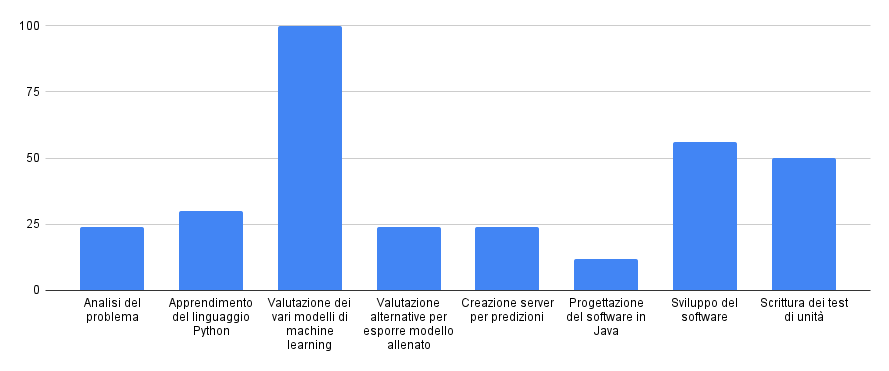
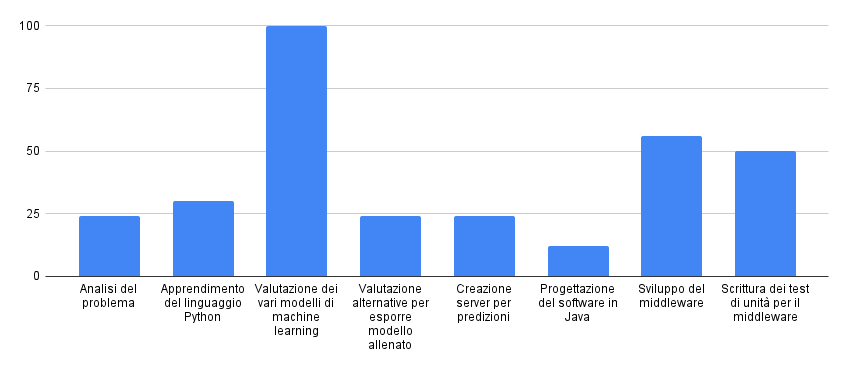
Updates from Overleaf

diff --git a/capitoli/capitolo-2.tex b/capitoli/capitolo-2.tex
@@ -13,7 +13,7 @@
 \section{Descrizione del dataset}
 \subsection{Descrizione del tipo di dati ricercati}
 Dopo l'incontro con un esperto in geologia, a cui l'azienda si è rivolta per una consulenza, si è deciso di descrivere gli esempi che andranno in input al modello di machine learning attraverso la loro firma spettrale.
-La firma spettrale è una caratteristica che ogni materiale ha, ed è specifica per ogni combinazione di riflessi e assorbimenti delle radiazioni elettromagnetiche (EM) a diverse lunghezze d'onda. Conoscendo la firma spettrale di un oggetto, è possibile identificarlo univocamente.
+La firma spettrale è una caratteristica che ogni materiale possiede, ed è specifica per ogni combinazione di riflessi e assorbimenti delle radiazioni elettromagnetiche (EM) a diverse lunghezze d'onda. Conoscendo la firma spettrale di un oggetto, è possibile identificarlo univocamente.
 Un esempio di firma è quello riportato nella figura \ref{fig:esempio_firma}, presa dal dataset di seguito presentato.
 \begin{figure}
     \centering
@@ -39,14 +39,14 @@ Gli strumenti usati, in dettaglio, sono:
 Le classi di materiale prese in considerazione sono:
 \begin{itemize}
     \item minerali;
-    \item terreno (incluso rocce e minerali);
+    \item terreno;
     \item rivestimenti su superfici rocciose;
     \item liquidi;
     \item composti organici;
     \item materiali artificiali;
     \item vegetazione e altri materiali biologici.
 \end{itemize}
-Una caratteristica degna di nota del dataset è che in corrispondenza di lunghezze d'onda il cui valore di riflettanza fosse stato eccessivamente sporcato da gas atmosferici questo è stato impostato a $-1.23 \cdot 10^{34}$, il quale corrisponde al "deleted channel" del software SPECPR (SPECtrum Processing Routines). Di conseguenza questi valori dovranno essere rimossi, per evitare che il modello prenda degli input inconsistenti durante il processo di allenamento.\\
+Una caratteristica degna di nota del dataset è che in corrispondenza di lunghezze d'onda il cui valore di riflettanza fosse stato eccessivamente sporcato da gas atmosferici questo è stato impostato a $1.23 \cdot 10^{34}$, il quale corrisponde al "deleted channel" del software SPECPR (SPECtrum Processing Routines). Di conseguenza questi valori dovranno essere rimossi, per evitare che il modello prenda degli input inconsistenti durante il processo di allenamento.\\
 In totale sono stati presi in considerazione 61453 esempi, con la distribuzione in classi riportata in figura \ref{distr_esempi}. Come si può notare dal grafico, ci troviamo in presenza di dati sbilanciati, con più della metà appartenente alla classe di rocce e minerali, una minima parte appartenente a rivestimenti e liquidi (in totale $1.5\%$), e i restanti esempi circa equi-distribuiti tra le restanti classi.
 
 \begin{figure}
@@ -57,7 +57,7 @@ In totale sono stati presi in considerazione 61453 esempi, con la distribuzione 
 \end{figure}
 
 \subsection{Elaborazione dei dati}
-In primo luogo è stato necessario formattare i dati contenuti nel dataset in modo che fossero poi pronti come input per il modello di machine learning. Originariamente questi erano contenuti in file formato \verb|.txt| codificati in ASCII. In particolare erano suddivisi in cartelle in base allo spettrometro usato nelle rilevazioni e all'anno in cui sono state effettuate. Dentro ognuna di queste poi, vi era una cartella per ogni classe di materiale, contenente le lo spettro luminoso di ogni materiale. Il file con la lunghezza d'onda era comune per tutti i materiali. Per questa attività si sono realizzati degli script in linguaggio Python, i quali rimuovevano caratteri come spazi e stringhe. Il risultato, per ogni cartella, è un file \verb|data.txt| in cui ogni linea identifica una rilevazione. In particolare il primo numero intero $n \in \{ 0 .. 6 \}$ identifica la classe di appartenenza secondo questa mappa:
+In primo luogo è stato necessario formattare i dati contenuti nel dataset in modo che fossero poi pronti come input per il modello di machine learning. Originariamente questi erano contenuti in file formato \verb|.txt| codificati in ASCII. In particolare erano suddivisi in cartelle in base allo spettrometro usato nelle rilevazioni e all'anno in cui sono state effettuate. Dentro ognuna di queste poi, vi era una cartella per ogni classe di materiale, contenente le lo spettro luminoso di ogni materiale. Il file con la lunghezza d'onda era comune per tutti i materiali. Per questa attività si sono realizzati degli script in linguaggio Python, i quali rimuovevano caratteri come spazi e stringhe. Il risultato, per ogni cartella, è un file \verb|data.txt| in cui ogni riga identifica una rilevazione. In particolare il primo numero intero $n \in \{ 0 .. 6 \}$ identifica la classe di appartenenza secondo questa mappa:
 \begin{itemize}
     \item $0 \rightarrow$ materiali artificiali
     \item $1 \rightarrow$ rivestimenti
@@ -67,7 +67,7 @@ In primo luogo è stato necessario formattare i dati contenuti nel dataset in mo
     \item $5 \rightarrow$ terreno
     \item $6 \rightarrow$ vegetazione
 \end{itemize}
-Successivamente ci sono $k$ numeri che rappresentano lo spettro luminoso, seguiti da altrettanti per le lunghezze d'onda corrispondenti. Più in dettaglio, il numero n-esimo nell'array dello spettro luminoso corrisponde al n-esimo nell'array delle lunghezze d'onda. Il valore $k$ dipende dallo strumento usato per la rilevazione.\\
+Successivamente ci sono $k$ numeri che rappresentano lo spettro luminoso, seguiti da altrettanti per le lunghezze d'onda corrispondenti. Più in dettaglio, il numero i-esimo nell'array dello spettro luminoso corrisponde al i-esimo nell'array delle lunghezze d'onda. Il valore $k$ dipende dallo strumento usato per la rilevazione.\\
 Vista l'eterogeneità delle righe del file, le quali hanno lunghezze diverse a causa della diversità delle misurazioni effettuate, si è resa necessaria una fase di uniformazione. Questa è stata effettuata usando il software proprietario MATLAB\_R2021A, lo script è riportato in \ref{script_matlab}.
 
 \lstset{
@@ -112,7 +112,7 @@ Vista l'eterogeneità delle righe del file, le quali hanno lunghezze diverse a c
 \end{lstlisting}
 dove il file \verb|dataset.txt| è l'unione dei file generati per ogni cartella in precedenza con lo script Python.
 Ogni linea viene divisa nelle tre parti prima descritte, inoltre dai valori di riflettanza e lunghezza d'onda vengono rimossi i canali con valori eliminati a causa di errori troppo elevati nella rilevazione.
-Successivamente i valori vengono interpolati con una spline cubica e portati ad un'unica dimensionalità di 2000 punti. Quello che interessa per identificare un oggetto tramite la firma spettrale, cosi come dedotto dall'incontro con l'esperto in geologia, è l'andamento del valore di riflettanza, ad esempio particolari picchi o oscillazioni. Di conseguenza non è fondamentale che i valori di lunghezza d'onda siano esattamente gli stessi, perciò l'interpolazione avviene considerando gli estremi dell'intervallo delle lunghezze d'onda per ogni esempio. È stato scelto questo particolare metodo di interpolazione visto che assicura la convergenza anche con nodi equispaziati ed è stabile, al contrario di quello polinomiale.\\
+Successivamente tutti gli esempi sono interpolati con una spline cubica e portati in uno spazio a 2000 dimensioni. Quello che interessa per identificare un oggetto tramite la firma spettrale, cosi come dedotto dall'incontro con l'esperto in geologia, è l'andamento del valore di riflettanza, ad esempio particolari picchi o oscillazioni. Di conseguenza non è fondamentale che i valori di lunghezza d'onda siano esattamente gli stessi, perciò l'interpolazione avviene considerando gli estremi dell'intervallo delle lunghezze d'onda per ogni esempio. È stato scelto questo particolare metodo di interpolazione visto che assicura la convergenza anche con nodi equispaziati ed è stabile, al contrario di quello polinomiale.\\
 L'output di questo script sono i due file \verb|x.txt| e \verb|y.txt|, i quali sono pronti ad essere caricati in linguaggio Python per usarli come input del modello di apprendimento automatico.
 
 \section{Sviluppo del modello di machine learning}
@@ -125,7 +125,8 @@ Il vantaggio nell'utilizzo di questo strumento è innanzitutto la possibilità d
 
 \subsection{Scelta del modello}
 \subsubsection{k-nearest-neighbour}
-Una prima considerazione è stata fatta in base al successivo utilizzo del modello allenato: questo dovrà essere interpellato per effettuare predizioni in real time, dunque il tempo di risposta dovrà essere costante. Ne segue che modelli basati su k-nearest-neighbour non possono essere adottati, in quanto il tempo di esecuzione dell'algoritmo di predizione ricade nella classe di complessità $\theta (n)$ dove $n$ è il numero di esempi classificati. Questo perché la classificazione dei nuovi esempi si basa sul calcolo della distanza dagli esempi nel training set in uno spazio d-dimensionale (dove $d$ è il numero di features, nel nostro caso 2000), successivamente si trovano i $k$ esempi più vicini a quello da classificare, tra questi si guarda la classe più frequente. Una volta che un esempio è classificato viene usato nelle predizioni successive, dunque il tempo per il calcolo delle distanze aumenta. Questo è impraticabile in un sistema real-time, il quale richiede che i tempi di risposta siano costanti, ne segue la decisione prima menzionata. Un esempio di funzionamento di questo algoritmo si può osservare nella figura \ref{fig:knn}.
+Una prima considerazione è stata fatta in base al successivo utilizzo del modello allenato: questo dovrà essere interpellato per effettuare predizioni in real time, dunque il tempo di risposta dovrà essere costante. Ne segue che modelli basati su k-nearest-neighbour non possono essere adottati, in quanto il tempo di esecuzione dell'algoritmo di predizione ricade nella classe di complessità $\Theta (n)$ dove $n$ è il numero di esempi classificati. Questo perché la classificazione dei nuovi esempi si basa sul calcolo della distanza dagli esempi nel training set in uno spazio d-dimensionale (dove $d$ è il numero di features, nel nostro caso 2000), successivamente si trovano i $k$ esempi più vicini a quello da classificare, tra questi si guarda la classe più frequente. Una volta che un esempio è classificato viene usato nelle predizioni successive, dunque il tempo per il calcolo delle distanze aumenta. Questo è impraticabile in un sistema real-time, il quale richiede che i tempi di risposta siano costanti, ne segue la decisione prima menzionata.
+Un esempio di funzionamento di questo algoritmo si può osservare nella figura \ref{fig:knn}.
 
 \begin{figure}
     \centering
@@ -138,11 +139,11 @@ Una prima considerazione è stata fatta in base al successivo utilizzo del model
 Questo tipo di modello è stato preso in considerazione visto che è un algoritmo di apprendimento supervisionato usato spesso per compiti di classificazione. È un modello di classificazione lineare ma può essere usato efficientemente per effettuare classificazioni non lineari usando il \textit{kernel trick}. Inoltre è molto efficace in spazi a molte dimensioni.
 Per l'implementazione ci si è affidati alla libreria scikit-learn, la quale offre dei modelli per la classificazione con le seguenti classi:
 \begin{itemize}
-    \item SVC: Support Vector Classification, la cui implementazione è basata sulla libreria \verb|libsvm| scritta in linguaggio C++, dunque offre la velocità di un linguaggio compilato. Il tempo di training è nella classe di complessità $\theta (n^2)$ con $n$ il numero di esempi nel set di training, dunque diventa inutilizzabile con le dimensioni del nostro dataset. Questo perché effettua un tipo di classificazione one-vs-one, dunque allena $k \cdot (k-1)/2$ classificatori binari con $k$ il numero di classi;
+    \item SVC: Support Vector Classification, la cui implementazione è basata sulla libreria \verb|libsvm| scritta in linguaggio C++, dunque offre la velocità di un linguaggio compilato. Il tempo di training è nella classe di complessità $\Theta (n^2)$ con $n$ il numero di esempi nel set di training, dunque diventa inutilizzabile con le dimensioni del nostro dataset. Questo perché effettua un tipo di classificazione one-vs-one, dunque allena $k \cdot (k-1)/2$ classificatori binari con $k$ il numero di classi;
     \item NuSVC: simile al precedente ma aggiunge un parametro per controllare il numero dei support vectors;
     \item LinearSVC: questo è stato il tipo di modello che si è provato ad utilizzare nel nostro caso. A differenza dei precedenti allena dei classificatori di tipo one-vs-all, ovvero un classificatore per ogni classe. Ne segue che non c'è più la complessità quadratica per l'algoritmo di allenamento. È simile alla classe SVC con parametro nel costruttore \verb|kernel='linear'|, tuttavia la sua implementazione si basa sulla libreria \verb|liblinear|, anch'essa scritta in C++ ma che scala meglio all'aumentare delle dimensioni del dataset.
 \end{itemize}
-Il modello è stato inserito in una pipeline che prevedesse uno step precedente per la normalizzazione delle features tramite la classe \verb|StandardScaler| offerta dalla stessa libreria. Si è applicata inoltre la procedura di hold-out, che prevede la suddivisione del dataset in due parti, training e validation set. La dimensione scelta per il primo è $80\%$, per il secondo il restante $20\%$, la suddivisione è stata effettuata in modo casuale usando la funzione \verb|train_test_split| offerta dalla stessa libreria.\\
+Il modello è stato inserito in una pipeline che prevedesse uno step precedente per la normalizzazione delle features tramite la classe \verb|StandardScaler| offerta dalla stessa libreria. Si è applicata inoltre la procedura di cross-validation, che prevede la suddivisione del dataset in due parti disgiunte, training e validation set. La dimensione scelta per il primo è $80\%$, per il secondo il restante $20\%$, la suddivisione è stata effettuata in modo casuale usando la funzione \verb|train_test_split| offerta dalla stessa libreria.\\
 Successivamente il modello allenato è stato testato valutando l'accuratezza nell'effettuare le predizioni sul set di validazione, le prove hanno dato esito negativo visto che non si è superato il $62\%$ in questa metrica.
 
 \begin{figure}

diff --git a/capitoli/capitolo-3.tex b/capitoli/capitolo-3.tex
@@ -3,19 +3,22 @@
 % !TEX root = ../tesi.tex
 
 %**************************************************************
-\chapter{Algoritmo per il calcolo della traiettoria}
+\chapter{Progettazione e sviluppo del middleware}
 \label{cap:business-logic}
 %**************************************************************
 
-\intro{In questa sezione si documenterà la realizzazione della business logic per il calcolo della traiettoria e l'interfacciamento con il drone.}\\
+\intro{In questa sezione si documenterà la realizzazione del middleware per il calcolo della traiettoria e l'interfacciamento con il drone.}\\
 
 %**************************************************************
 
 \section{Strumenti utilizzati}
-Il linguaggio scelto per sviluppare questa componente della Proof of Concept è Java nella versione 11. Si è usato l'IDE IntelliJ IDEA Education, il quale offre un ambiente di sviluppo integrato sia per Java che per Python. In questo modo è stato possibile eseguire il server per le predizioni insieme al modulo del programma in Java che si interfaccia con questo in modo molto semplificato.
+Il linguaggio scelto per sviluppare questa componente della Proof of Concept è Java nella versione 11.
+Questo è stato scelto per la sua predisposizione alla gestione della concorrenza: infatti l'interfaccia esposta dal middleware sarà in futuro utilizzata da più droni contemporaneamente, addetti alla scansione di un unico campo. Tuttavia durante il tirocinio ci si è concentrati a predisporre l'applicazione per un solo drone, questo per via delle risorse temporali limitate.\\
+Si è usato l'IDE IntelliJ IDEA Education, il quale offre un ambiente di sviluppo integrato sia per Java che per Python. In questo modo è stato possibile eseguire il server per le predizioni insieme al modulo del programma in Java che si interfaccia con questo in modo molto semplificato.
+Il progetto è stato gestito con Maven.
 
 \section{Architettura generale}
-L'architettura data all'applicazione è quella del monolite a strati, di cui si può vedere una rappresentazione ad alto livello nella figura \ref{fig:layered_architecture}. Il principale vantaggio che si ottiene dall'adozione di questa architettura è alta testabilità: infatti è molto semplice creare delle componenti di mock o addirittura layer interi che sostituiscono quelli reali, al fine di testare gli strati superiori.
+L'architettura data all'applicazione è quella del monolite a strati, di cui si può vedere una rappresentazione ad alto livello nella figura \ref{fig:layered_architecture}. Il principale vantaggio che si ottiene dall'adozione di questa architettura è l'alta testabilità: infatti è molto semplice creare delle componenti di mock o addirittura layer interi che sostituiscono quelli reali, al fine di testare gli strati superiori.
     
 \begin{figure}
     \centering
@@ -42,13 +45,13 @@ A questo livello, oltre alle classi per la persistenza che si interfacciano con 
 
 \begin{figure}
     \centering
-    \includegraphics[width=0.8\textwidth]{immagini/model_classes.png}
+    \includegraphics[width=0.7\textwidth]{immagini/model_classes.png}
     \caption{Diagramma delle classi per l'interfacciamento con la rete neurale}
     \label{fig:class_diagram_neural_network}
 \end{figure}
 
 \subsection{Strato di business}
-Salendo, a questo livello, troviamo l'insieme delle classi atte al calcolo del percorso che il drone dovrà eseguire. Si riporta nell'algoritmo \ref{alg:calculate_track} lo pseudo-codice per il calcolo del percorso. L'input sono due array paralleli $x$ e $y$ di grandezza $n$ (con $n$ il numero di punti da attraversare) contenenti le coordinate. Possiamo notare come questo problema è riconducibile ad un grafo completo $K_n$, in cui ogni nodo è connesso da un arco a tutti gli altri. Ognuno di questi archi ha un costo di percorrenza che dipende direttamente dalla distanza tra i due punti, espressi in coordinate. Ci troviamo di fronte al problema del commesso viaggiatore.\\
+Salendo, a questo livello, troviamo l'insieme delle classi addette al calcolo del percorso che il drone dovrà eseguire. Si riporta nell'algoritmo \ref{alg:calculate_track} lo pseudo-codice per il calcolo del percorso. L'input sono due array paralleli $x$ e $y$ di grandezza $n$ (con $n$ il numero di punti da attraversare) contenenti le coordinate. Possiamo notare come questo problema è riconducibile ad un grafo completo $K_n$, in cui ogni nodo è connesso da un arco a tutti gli altri. Ognuno di questi archi ha un costo di percorrenza che dipende direttamente dalla distanza tra i due punti, espressi in coordinate. Ci troviamo di fronte al problema del commesso viaggiatore.\\
 È possibile vedere il diagramma delle classi per questo layer nella figura \ref{fig:class_diagram_business}.
 
 \begin{figure}
@@ -59,20 +62,19 @@ Salendo, a questo livello, troviamo l'insieme delle classi atte al calcolo del p
 \end{figure}
 
 \subsubsection{Problema del commesso viaggiatore}
-Il nome nasce da una tipica rappresentazione del problema: dato un insieme di città da visitare una ed una sola volta e note le distanze tra queste, trovare il tragitto di minima percorrenza che un commesso viaggiatore deve eseguire per effettuare tutte le consegne e ritornare al punto di partenza. È stato dimostrato che questo problema è \textit{NP-hard}, in quanto non esiste un algoritmo che lo risolva in tempo polinomiale. L'unico metodo di risoluzione efficace è l'enumerazione totale dei possibili percorsi, che ricade nella classe di complessità computazionale $\theta(n!)$.
+Il nome nasce da una tipica rappresentazione del problema: dato un insieme di città da visitare una ed una sola volta e note le distanze tra queste, trovare il tragitto di minima percorrenza che un commesso viaggiatore deve eseguire per effettuare tutte le consegne e ritornare al punto di partenza. È stato dimostrato che questo problema è \textit{NP-hard}, in quanto non esiste un algoritmo che lo risolva in tempo polinomiale. L'unico metodo di risoluzione efficace è l'enumerazione totale dei possibili percorsi, che ricade nella classe di complessità computazionale $\Theta(n!)$.
 
 \subsubsection{Algoritmo euristico di risoluzione}
-Per affrontare il problema si è deciso di realizzare un algoritmo euristico, ovvero la cui soluzione prodotta è probabilmente buona ma non ottima.
-Come si può notare, il costo computazionale della procedura \verb|nearest_point| è lineare, dunque il costo totale della procedura rientra nella classe di algoritmi $\theta(n^2)$ con consumo di memoria costante. Considerando che nell'applicazione reale il valore di $n$ non raggiungerà mai valori elevati, il risultato è accettabile. Inoltre è possibile ottimizzare questo algoritmo durante l'implementazione rimuovendo i punti già inclusi nel cammino dagli array $x$ e $y$ invece di porre le coordinate a infinito.
-
-\subsubsection{Dimostrazione di correttezza}
-Assumendo la correttezza della funzione \verb|calculate_distance(x_a, y_a, x_b, y_b)| e che si completi in tempo $\theta(1)$ restituendo il valore della distanza tra i due punti identificati dalle coordinate passate come parametro, possiamo fornire una dimostrazione di correttezza dell'algoritmo. In particolare assumiamo che la PRE-condizione della funzione appena menzionata asserisca che i valori in ingresso identifichino le coordinate di due punti $A$ e $B$, i quali potrebbero coincidere; la POST-condizione invece stabilisce che venga ritornato un valore numerico, il quale identifica la distanza tra i due punti, dunque pari a $0$ se e solo se $A == B$.\\
-Per dimostrare la correttezza della procedura riportata in \ref{alg:nearest_point}, è necessario dimostrare la correttezza del ciclo al suo interno. In particolare l'invariante di ciclo è che all'inizio di ogni iterazione la variabile $minIndex$ contiene l'indice del punto più vicino dal punto con coordinate $x\_from$ e $y\_from$ contenuto nei sotto array $x\_to[1 \dotso i-1]$ e $y\_to[1 \dotso i-1]$, mentre la variabile $minDistance$ contiene il valore della distanza tra il punto di partenza e il punto contenuto nell'array nella cella $minIndex$.
+Per affrontare il problema si è deciso di realizzare un algoritmo greedy euristico, ovvero la cui soluzione prodotta è probabilmente buona ma non ottima.
+Come si può notare, il costo computazionale della procedura \verb|nearest_point| è lineare, dunque il costo totale della procedura rientra nella classe di algoritmi $\Theta(n^2)$ con consumo di memoria costante. Considerando che nell'applicazione reale il valore di $n$ non raggiungerà mai valori elevati, il risultato è accettabile. Inoltre è possibile ottimizzare questo algoritmo durante l'implementazione rimuovendo i punti già inclusi nel cammino dagli array $x$ e $y$ invece di porre le coordinate a infinito.\\\\
+\textbf{Dimostrazione di correttezza}\\
+Assumendo la correttezza della funzione \verb|calculate_distance(x_a, y_a, x_b, y_b)| e che si completi in tempo $\Theta(1)$ restituendo il valore della distanza tra i due punti identificati dalle coordinate passate come parametro, possiamo fornire una dimostrazione di correttezza dell'algoritmo. In particolare assumiamo che la PRE-condizione della funzione appena menzionata asserisca che i valori in ingresso identifichino le coordinate di due punti $A$ e $B$, i quali potrebbero coincidere; la POST-condizione invece stabilisce che venga ritornato un valore numerico, il quale identifica la distanza tra i due punti, dunque pari a $0$ se e solo se $A == B$.\\
+Per dimostrare la correttezza della procedura riportata in \ref{alg:nearest_point}, è necessario dimostrare la correttezza del ciclo al suo interno. In particolare l'invariante di ciclo è che all'inizio di ogni iterazione la variabile $minIndex$ contiene l'indice del punto più vicino dal punto con coordinate $x\_from$ e $y\_from$ contenuto nei sotto array $x\_to[1 \dotso i-1]$ e $y\_to[1 \dotso i-1]$, mentre la variabile $minDistance$ contiene il valore della distanza tra il punto di partenza e il punto indicizzato da $minIndex$.
 
 \begin{itemize}
-    \item Inizializzazione: prima dell'inizio del ciclo i sottoarray $x\_to[1 \dotso i-1]$ e $y\_to[1 \dotso i-1]$ sono vuoti, dunque non esiste un punto che abbia una distanza valida dal punto di partenza.
+    \item Inizializzazione: prima dell'inizio del ciclo vale $i=1$, quindi i sottoarray $x\_to[1 \dotso i-1]$ e $y\_to[1 \dotso i-1]$ sono vuoti, dunque non esiste un punto che abbia una distanza valida dal punto di partenza.
     \item Conservazione: assumendo che prima di ogni iterazione l'invariante sia rispettato, possiamo notare che aggiungendo l'elemento i-esimo ai sottoarray finora considerati l'invariante resta valido, infatti il punto più vicino viene aggiornato solo se la sua distanza è minore di quella più piccola finora individuata.
-    \item Conclusione: dopo l'ultima iterazione, quando $i == n$ sappiamo che $minIndex$ contiene l'indice del punto più vicino a quello di partenza compreso in $x\_to[1 \dotso n]$ e $x\_to[1 \dotso n]$, dunque non resta che ritornare tale valore.
+    \item Conclusione: dopo l'ultima iterazione, quando $i == n+1$ sappiamo che $minIndex$ contiene l'indice del punto più vicino a quello di partenza compreso in $x\_to[1 \dotso n]$ e $x\_to[1 \dotso n]$, dunque non resta che ritornare tale valore.
 \end{itemize}
 
 Una volta fatta questa dimostrazione è banale dedurre la correttezza dell'algoritmo di calcolo del percorso riportato in \ref{alg:calculate_track}. La PRE-condizione di questo è che i punti negli array $x[1 \dotso n]$ e $y[1 \dotso n]$ non siano duplicati e che il punto di partenza identificato dalle coordinate $x\_start$ e $y\_start$ non sia un valore contenuto negli array. La POST-condizione è che gli array $x\_path[1 \dotso n+1]$ e $y\_path[1 \dotso n+1]$ contengano esattamente i punti contenuti originariamente in $x$ e $y$ e alla posizione $n+1$ il punto di partenza, in modo che il percorso termini nello stesso punto da cui è partito. Inoltre i punti devono essere ordinati secondo una scelta greedy, ovvero ogni volta selezionando il più vicino dal punto precedente. L'invariante di ciclo asserisce quindi che $x\_prev$ e $y\_prev$ contengano l'ultimo punto aggiunto al percorso da cui valutare le distanze verso i possibili punti successivi e che i punti già inseriti nel cammino non vengano più considerati nel calcolo delle distanze.
@@ -148,4 +150,4 @@ Nel nostro specifico caso si tratta di esporne tre:
 \end{figure}
 
 \section{Test e copertura}
-Per garantire un certo grado di affidabilità del codice scritto in Java si sono implementati molti test di unità in modo da garantire la copertura del codice più alta possibile. L'esecuzione dei test e il relativo calcolo della percentuale di righe di codice coperte viene fatto nel processo di Continuous Integration implementato attraverso il servizio offerto TravisCI. Questo offre delle macchine virtuali eseguite su architettura cloud ed offerte as-a-service. Ad ogni push nella repository principale (ospitata su GitHub) viene scatenato uno script che esegue tutti i test di unità, se questi passano allora viene calcolata la coverage. Entrambi i risultati (successo dei test e percentuale di coverage) vengono riportati nella pagina GitHub della repository.
+Per garantire un certo grado di affidabilità del codice scritto in Java si sono implementati molti test di unità in modo da garantire la copertura del codice più alta possibile. L'esecuzione dei test e il relativo calcolo della percentuale di righe di codice coperte viene fatto nel processo di Continuous Integration implementato attraverso il servizio TravisCI. Questo offre delle macchine virtuali eseguite su architettura cloud ed offerte as-a-service. Ad ogni push nella repository principale (ospitata su GitHub) viene scatenato uno script che esegue tutti i test di unità, se questi passano allora viene calcolata la coverage dal servizio coveralls (anch'esso disponibile in cloud as-a-service). Entrambi i risultati (successo dei test e percentuale di coverage) vengono riportati nella pagina GitHub della repository.

diff --git a/capitoli/capitolo-4.tex b/capitoli/capitolo-4.tex
@@ -16,16 +16,17 @@ Si riportano qui alcune attività da svolgere per far evolvere la Proof of Conce
 Alla fine del periodo di tirocinio, il software prodotto per la Proof of Concept indica una piena fattibilità del progetto. In particolare l'analisi del modello di machine learning realizzato dice che la classificazione di oggetti tramite la firma spettrale produce risultati accettabili. Una possibile difficoltà che l'azienda potrà incontrare nel caso decidesse di portare avanti il progetto sarà l'individuazione di un dataset adatto per allenare la rete neurale. Infatti il committente richiede che il software sia in grado di riconoscere eventuali malattie delle colture ed il grado di maturazione. Con il dataset di USGS questo compito non è implementabile, sarà quindi necessario individuarne uno adatto tramite una ricerca più approfondita oppure crearne uno. Per la seconda opzione sarà necessario investire molte risorse aziendali, in modo da acquisire molte rilevazioni delle colture che si vorranno analizzare in diverse condizioni, quindi il tempo necessario alla raccolta dei dati sarà molto lungo.
 
 \subsection{Esposizione modello allenato}
-Un'altra decisione da prendere sarà se condividere il modello di machine learning tra le varie istanze dell'applicazione oppure no. Nel primo caso sarà bene migrare verso un'infrastruttura cloud che offra servizi di machine learning integrati, in modo da garantire scalabilità e performance elevate. Infatti con l'architettura client-server attuale è possibile soltanto scalare verticalmente le risorse, cosa alquanto limitante.
+Un'altra decisione da prendere sarà se condividere il modello di machine learning tra le varie istanze dell'applicazione oppure no. Nel primo caso sarà bene migrare verso un'infrastruttura cloud che offra servizi di machine learning integrati, in modo da garantire scalabilità e performance elevate. Infatti con l'architettura client-server attuale è possibile soltanto scalare verticalmente le risorse, fattore alquanto limitante.
 
 \subsection{Business logic}
-L'algoritmo proposto durante il tirocinio per il calcolo del percorso è euristico. Con più tempo a disposizione sarà bene analizzarne le prestazioni in applicazioni reali (anche simulate) e, se necessario, pensare ed implementare una soluzione più efficiente. Inoltre allo stato attuale è previsto al massimo un drone per ogni campo di colture, potrebbe essere interessante sviluppare un algoritmo per più droni in caso di campi molto estesi, visto che molto probabilmente la batteria del singolo potrebbe non essere sufficiente a svolgere un'analisi completa in un solo volo.
+L'algoritmo proposto durante il tirocinio per il calcolo del percorso è euristico. Con più tempo a disposizione sarà bene analizzarne le prestazioni in applicazioni reali (anche simulate) e, se necessario, pensare ed implementare una soluzione più efficiente. Inoltre allo stato attuale è previsto al massimo un drone per ogni campo di colture, potrebbe essere interessante sviluppare un algoritmo per più droni in caso di campi molto estesi, visto che molto probabilmente la batteria del singolo potrebbe non essere sufficiente a svolgere un'analisi completa in un solo volo. In questo caso sarà necessario pensare alle problematiche derivanti da una logica concorrente, il linguaggio di programmazione scelto per il middleware è tra i più adatti alla realizzazione di soluzioni efficaci in questi casi, visto che integra nativamente la gestione della concorrenza.
 
 \section{Valutazione retrospettiva personale}
 La pianificazione delle attività svolta a monte dell'inizio del tirocinio ha subito molte variazioni per via del carattere sperimentale del progetto. Tuttavia una volta identificati i punti cardine, ovvero nella seconda settimana, si è definita in modo stabile la collocazione temporale delle attività da svolgere. Il carico di lavoro risultante è stato adeguato al tempo a disposizione, riuscendo a rimanere in pari con quanto preventivato. Tutti gli obiettivi presentati nella sezione \ref{sec:pianificazione} sono stati raggiunti durante lo svolgimento dello stage.
 
 \section{Riassunto quantitativo impegno orario}
 Viene riportato in figura \ref{fig:impegno_orario} un istogramma con il numero di ore impiegato per ogni attività svolta durante il periodo di tirocinio. L'attività di analisi del problema include anche le ore impiegate nella ricerca di un dataset adatto, visto che la definizione della rappresentazione di un singolo esempio era fortemente legata al tipo di dati trovati in rete. Da questo si evince che una parte consistente del tirocinio è stata dedicata all'analisi prestazionale di vari modelli di machine learning, oltre che al tempo necessario per apprendere la teoria alla base e fare quindi considerazioni utili.
+Un'altra considerazione rilevante è da fare sull'attività di scrittura dei test per il middleware, che vede un monte ore quasi pari a quello per lo sviluppo del software stesso. Si è consegnata quindi all'azienda una Proof of Concept riutilizzabile nell'evoluzione del progetto, che si pone come base per future aggiunte a livello di feature e di modifiche necessarie per portare il software in ambiente di produzione.
 
 \begin{figure}
     \centering
@@ -33,3 +34,6 @@ Viene riportato in figura \ref{fig:impegno_orario} un istogramma con il numero d
     \caption{Istogramma impegno orario per attività}
     \label{fig:impegno_orario}
 \end{figure}
+
+\section{Documentazione realizzata}
+Durante il corso del tirocinio il software prodotto è stato documentato per aumentare la sua manutenibilità. In particolare, per quanto riguarda il modello di machine learning realizzato in Python si è sfruttata la possibilità di intervallare il codice con dei campi testuali, in questo modo leggendo il notebook è possibile avere una visione dall'alto delle classi presenti, del loro scopo e il loro funzionamento; per quanto riguarda il middleware si è fatto uso di Javadoc, ovvero un applicativo integrato in Java che genera una pagina web a partire dai commenti presenti nel codice, i quali devono rispettare una precisa formattazione.

diff --git a/capitoli/capitolo-1.tex b/capitoli/capitolo-1.tex
@@ -8,7 +8,7 @@
 %**************************************************************
 
 \intro{Nel corso di questo capitolo si presenterà l'azienda in cui è stato svolto il progetto di stage,
-portando inoltre l'attenzione sugli obiettivi, la pianificazione del lavoro e le modalità in cui si è svolto.}
+portando inoltre l'attenzione sugli obiettivi, la pianificazione del lavoro e le modalità con cui si è svolto.}
 
 %**************************************************************
 
@@ -32,7 +32,7 @@ Il team è composto da poche persone, circa una decina. La metodologia di lavoro
 %**************************************************************
 \section{Progetto di stage}
 
-Lo scopo principale dello stage è uno studio di fattibilità, seguito dalla realizzazione di una Proof of Concept, per un sistema di navigazione
+Lo scopo principale dello stage è uno studio di fattibilità, accompagnato dalla realizzazione di una Proof of Concept, per un sistema di navigazione
 per droni senza pilota, il cui obiettivo è quello di sorvolare un campo di frutta identificando le zone in cui le piante soffrono di malattie e lo stato
 di maturazione delle colture.\\
 In particolare parte del sistema deve essere composta da un modello di machine learning per classificare il tipo di oggetti sorvolati dal drone,
@@ -64,8 +64,8 @@ all'intero sistema realizzato.
 \section{Pianificazione e modalità di lavoro}
 \label{sec:pianificazione}
 Le attività sono state svolte in totale autonomia in modalità remota, intervallate da incontri in sede con cadenza settimanale.\\
-A questi erano presenti il CEO (nonché tutor esterno) e il CTO, il quale mi ha affiancato per tutta la durata del tirocinio verificando
-costantemente il mio avanzamento.\\
+A questi erano presenti il CEO (nonché tutor esterno) e il CTO, il quale ha seguito l'evoluzione del progetto per tutta la durata del tirocinio verificando
+costantemente l'avanzamento.\\
 Per quanto riguarda gli obiettivi obbligatori prefissati, si sono identificati i seguenti:
 \begin{itemize}
 		\item \textbf{OB1:} definizione della rappresentazione degli esempi per il modello di machine learning
@@ -74,7 +74,7 @@ Per quanto riguarda gli obiettivi obbligatori prefissati, si sono identificati i
 		\item \textbf{OB4:} realizzazione del modello di machine learning per la classificazione di zone
 		\item \textbf{OB5:} analisi prestazionale del modello
 		\item \textbf{OB6:} realizzazione di un web server per la predizione in real time
-		\item \textbf{OB7:} realizzazione del programma per il calcolo della traiettoria, che si interfacci con il web server e preveda l'interfacciamento con il drone (per il progetto solo con un mock)
+		\item \textbf{OB7:} realizzazione del programma middleware per il calcolo della traiettoria, che si interfacci con il web server e preveda l'interfacciamento con il drone.
 \end{itemize}
 Ne segue questa pianificazione con cadenza settimanale, la quale ha subito diverse variazioni nel corso dello stage:
 \begin{enumerate}
@@ -87,7 +87,7 @@ Ne segue questa pianificazione con cadenza settimanale, la quale ha subito diver
     \item Settimana dal 10/05 al 14/05
     \begin{itemize}
         \item analisi approfondita del dataset di firme spettrali USGS
-        \item apprendimento del linguaggio python
+        \item apprendimento del linguaggio Python e dei principali framework per il machine learning
     \end{itemize}
     
     \item Settimana dal 17/05 al 21/05
@@ -105,7 +105,7 @@ Ne segue questa pianificazione con cadenza settimanale, la quale ha subito diver
     
     \item Settimana dal 31/05 al 04/06
     \begin{itemize}
-        \item progettazione e sviluppo business logic in linguaggio Java
+        \item progettazione e sviluppo middleware in linguaggio Java
         \begin{itemize}
             \item interfacciamento con web server Python per predizioni
             \item realizzazione di un web server in Java per l'interfacciamento con il drone
